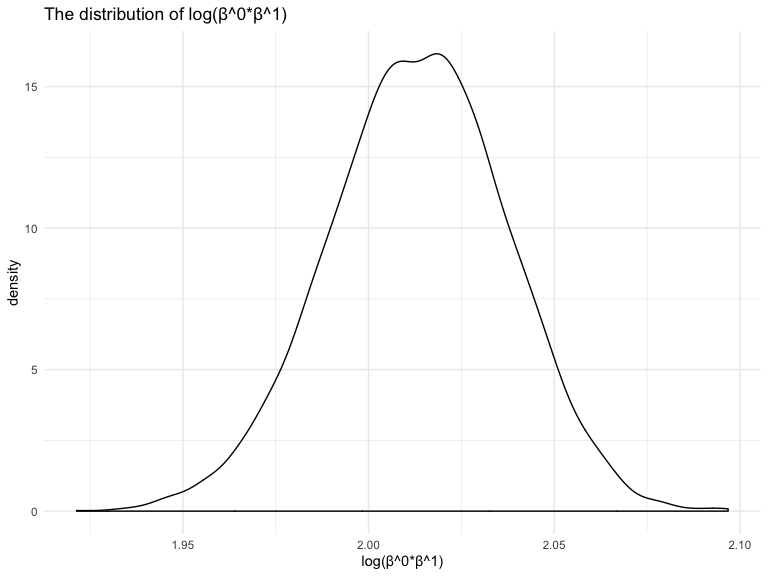
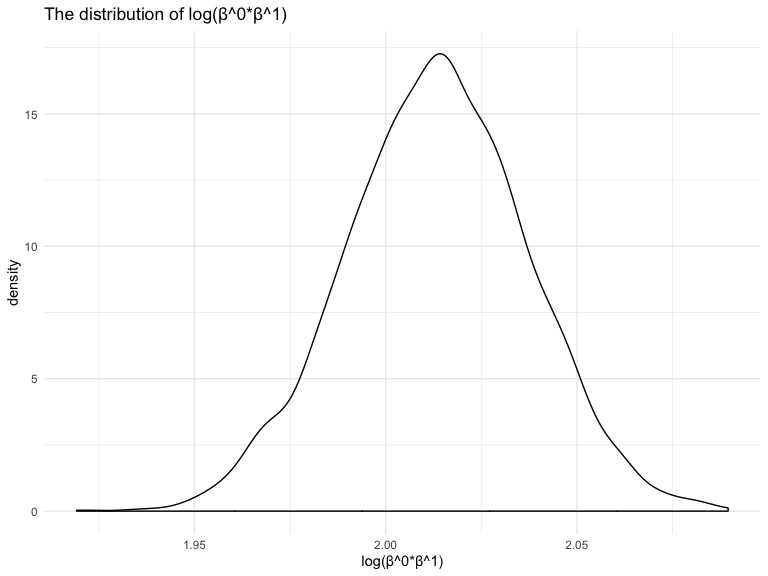
final

diff --git a/p8105_hw6_yy2912.md b/p8105_hw6_yy2912.md
@@ -46,21 +46,16 @@ filter(is.na(bwt))
 there is no missing data in this dataset
 
 proposed model: the model I proposed include several factors that may
-associate with baby’s birthweight:
+associate with baby’s birthweight.
 
-\*baby’s sex: boys may have higher birthweight than girls
-
-\*baby’s head circumferences: babies with larger head circumferences may
-have higher weight
-
-\*mother’s weight at delivery: mothers who have higher weigth at
-delivery may have babies with higher birthweight
-
-\*mother’s age at delivery: the younger the mother is, the baby may have
-higher the weight
-
-\*mother’s pre-pregnancy BMI: the higher the mother’s pre-pregnancy BMI,
-there’s a possibility that the baby will have higher the birthweight
+Baby’s sex: boys may have higher birthweight than girls. Baby’s head
+circumferences: babies with larger head circumferences may have higher
+weight. Mother’s weight at delivery: mothers who have higher weigth at
+delivery may have babies with higher birthweight. Mother’s age at
+delivery: the younger the mother is, the baby may have higher the
+weight. Mother’s pre-pregnancy BMI: the higher the mother’s
+pre-pregnancy BMI, there’s a possibility that the baby will have higher
+the birthweight.
 
 baby’s birthweights may be associated with baby’s sex, baby’s head
 circumferences, mother’s weight at delivery, mother’s age at delivery,
@@ -224,7 +219,7 @@ quantile(pull(bootstrap_samples, r.squared),c(0.025,0.975))
 ```
 
     ##      2.5%     97.5% 
-    ## 0.8937847 0.9274899
+    ## 0.8939294 0.9270502
 
 Based on the plot, r squared follows a normal distribution with a slight
 left skewedness. The 95% CI of r squared lies between 0.89 and 0.93.
@@ -246,7 +241,7 @@ quantile(pull(bootstrap_samples_new, log_beta),c(0.025,0.975))
 ```
 
     ##     2.5%    97.5% 
-    ## 1.964558 2.058807
+    ## 1.965884 2.059615
 
 From the plot, log(β<sup>0*β^1) roughly follows a normal distribution.
 The 95% CI of log(β^0*β</sup>1) lies between 1.97 and 2.06.
